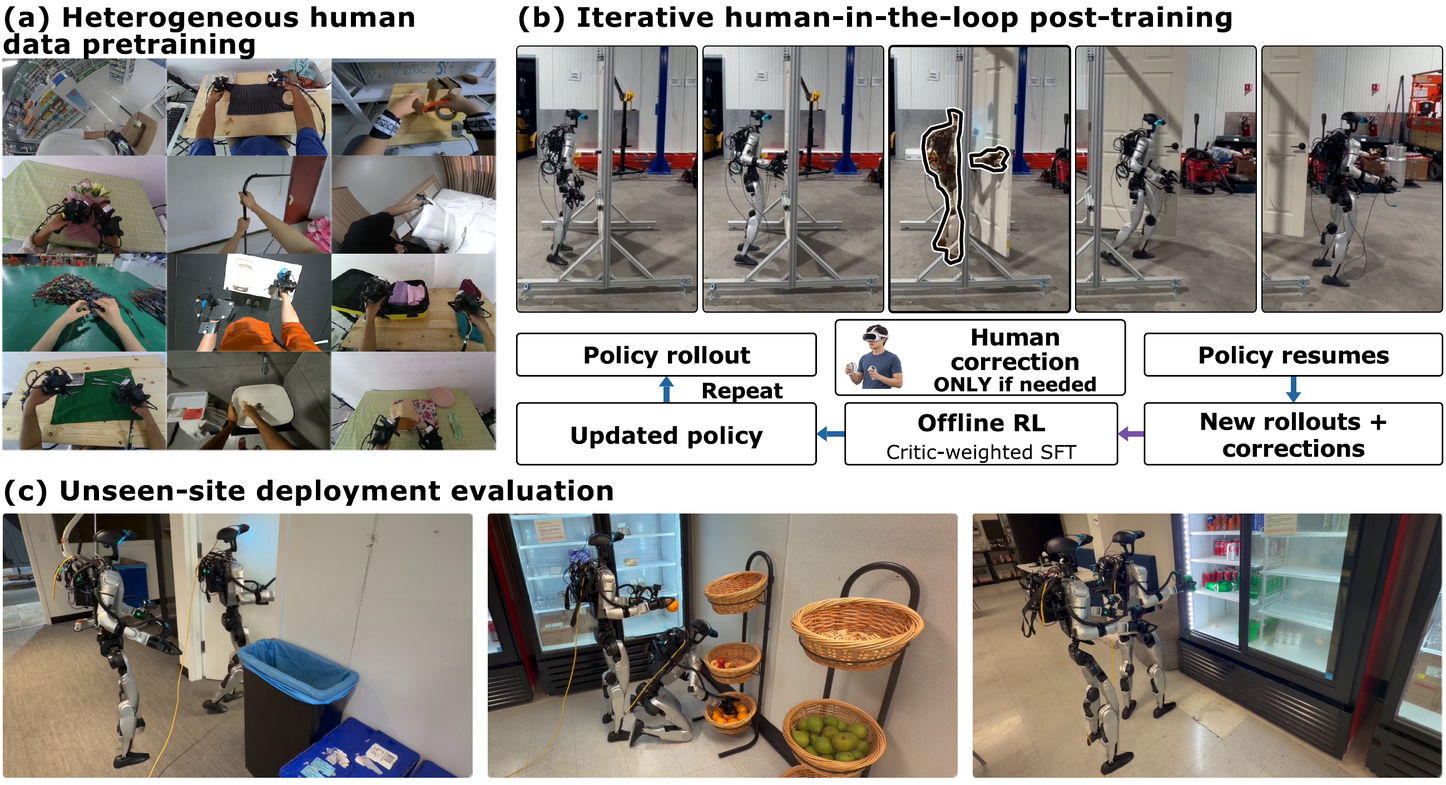
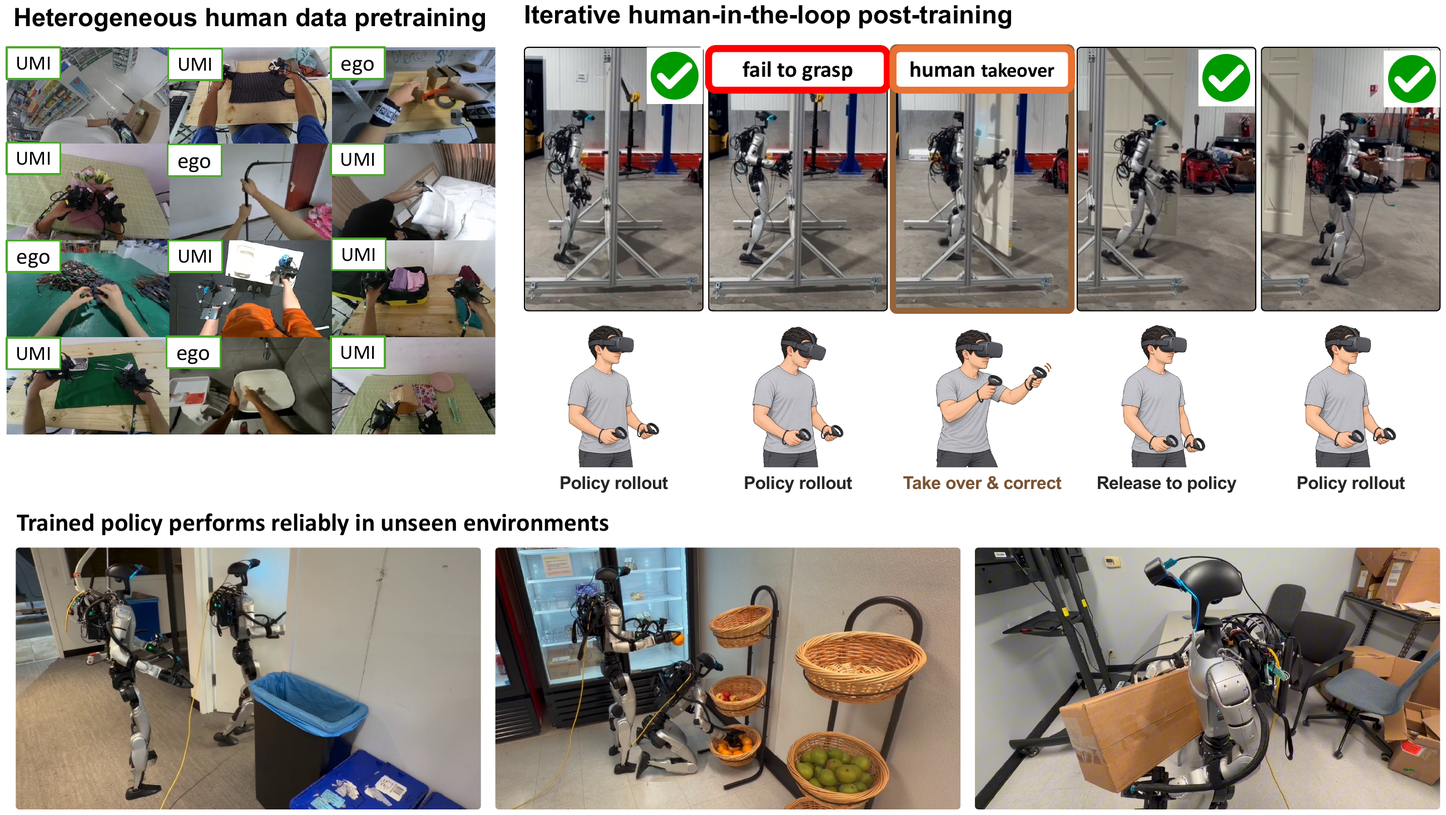
Update manuscript abstract and revised teaser

diff --git a/index.html b/index.html
@@ -13,13 +13,13 @@
       <h1>Data-Efficient Humanoid Loco-Manipulation Learning via Heterogeneous Human Data Pretraining and Iterative Offline RL</h1>
     </header>
     <figure class="teaser">
-      <a href="assets/teaser.png" aria-label="View the project teaser at full resolution">
-        <img src="assets/teaser.png" width="2600" height="1411" alt="Project overview: heterogeneous human data pretraining, iterative human-in-the-loop offline reinforcement learning, and humanoid deployment in unseen environments." fetchpriority="high">
+      <a href="assets/teaser.png?v=ae8d354bd2fc" aria-label="View the project teaser at full resolution">
+        <img src="assets/teaser.png?v=ae8d354bd2fc" width="2600" height="1465" alt="Project overview: heterogeneous human data pretraining, iterative human-in-the-loop offline reinforcement learning, and humanoid deployment in unseen environments." fetchpriority="high">
       </a>
     </figure>
     <section aria-labelledby="abstract-title">
       <h2 id="abstract-title">Abstract</h2>
-      <p>Humanoid whole-body loco-manipulation is usually learned from teleoperated robot data, which is commonly known to be costly to collect and hard to scale. Human data offers a far cheaper and more diverse option for robot skill learning. But due to the strong visual and kinematic gap between humans and humanoids, researchers have long struggled to make use of those scaled data already collected in bulk that works for table-top bimanual arms. Those data are also saved in different formats, and different dataset have very different observation spaces and action spaces. In this work, we propose a new policy training recipe for humanoid whole-body loco-manipulation, which we pretrain our policy by co-training large amount of human data that are formatted into the same action space, and post-train the policy with human-in-the-loop iterative offline RL. Our key insight is that a large amount of human data in the wild provides distributional coverage for the policy to learn how to accomplish the whole-body manipulation task in different scenarios, and a small amount of on-robot human-in-the-loop post-training shapes and sharpens that distribution to achieve a higher success rate in accomplishing hard loco-manipulation tasks in the wild. We demonstrate how our recipe performs in selected whole-body manipulation tasks that span the demands of whole body loco-manipulation: our trained policy reaches a 20/20 success rate in the any-object pickup task with language conditioning and whole body posture coordination, measured in unseen environments throughout. Our policy also achieves 16/20 and 17/20 success rates pushing and pulling door opening tasks with doors with door handle weights. The recipe works effectively well in tasks involving whole-body contact like torso-assisted whole-body box carrying, and achieves a 16/20 success rate in held-out environments. Additional training recipe&#x27;s introduction and experimental results are available at https://wbm-with-human-data-and-rl.github.io/.</p>
+      <p>Learning whole-body loco-manipulation from teleoperated robot data is costly and hard to scale. Human data offers a far cheaper and more diverse option for robot skill learning: it is already available at scale and used successfully for table-top bimanual robot arms. Transferring the trained policy&#x27;s success to humanoids is harder: the visual and kinematic gap is wider than table top bimanual arms. Mmost human data capture head and both wrists&#x27; trajectory but not the whole-body motion that the low level tracker for humanoid takes in. Those data are also stored in different formats, and different datasets have very different observation spaces and action spaces. In this work, we propose a new policy training recipe for learning humanoid whole-body loco-manipulation skills, in which we pretrain our policy by co-training on a large amount of human data that are canonicalized into the same action space, and post-train the policy with human-in-the-loop iterative offline RL. Our key insight is that a large amount of in the wild human data provides distributional coverage for the policy to learn how to accomplish the whole-body manipulation task in different scenarios, and a small amount of on-robot human-in-the-loop post-training shapes and sharpens that distribution to achieve a higher success rate in accomplishing hard loco-manipulation tasks in the wild. We demonstrate how our recipe performs in selected whole-body manipulation tasks that span the demands of whole body loco-manipulation: our trained policy reaches a 20/20 success rate in the any-object pickup task with language conditioning and whole body posture coordination, measured in unseen environments throughout. Our policy also achieves 17/20 and 16/20 success rates on pushing and pulling doors with heavy door knobs. The recipe works effectively in tasks involving whole-body contact like torso-assisted whole-body box carrying, and achieves a 16/20 success rate in held-out environments. Additional training recipe&#x27;s introduction and experimental results are available at https://wbm-with-human-data-and-rl.github.io/.</p>
     </section>
   </main>
 </body>
